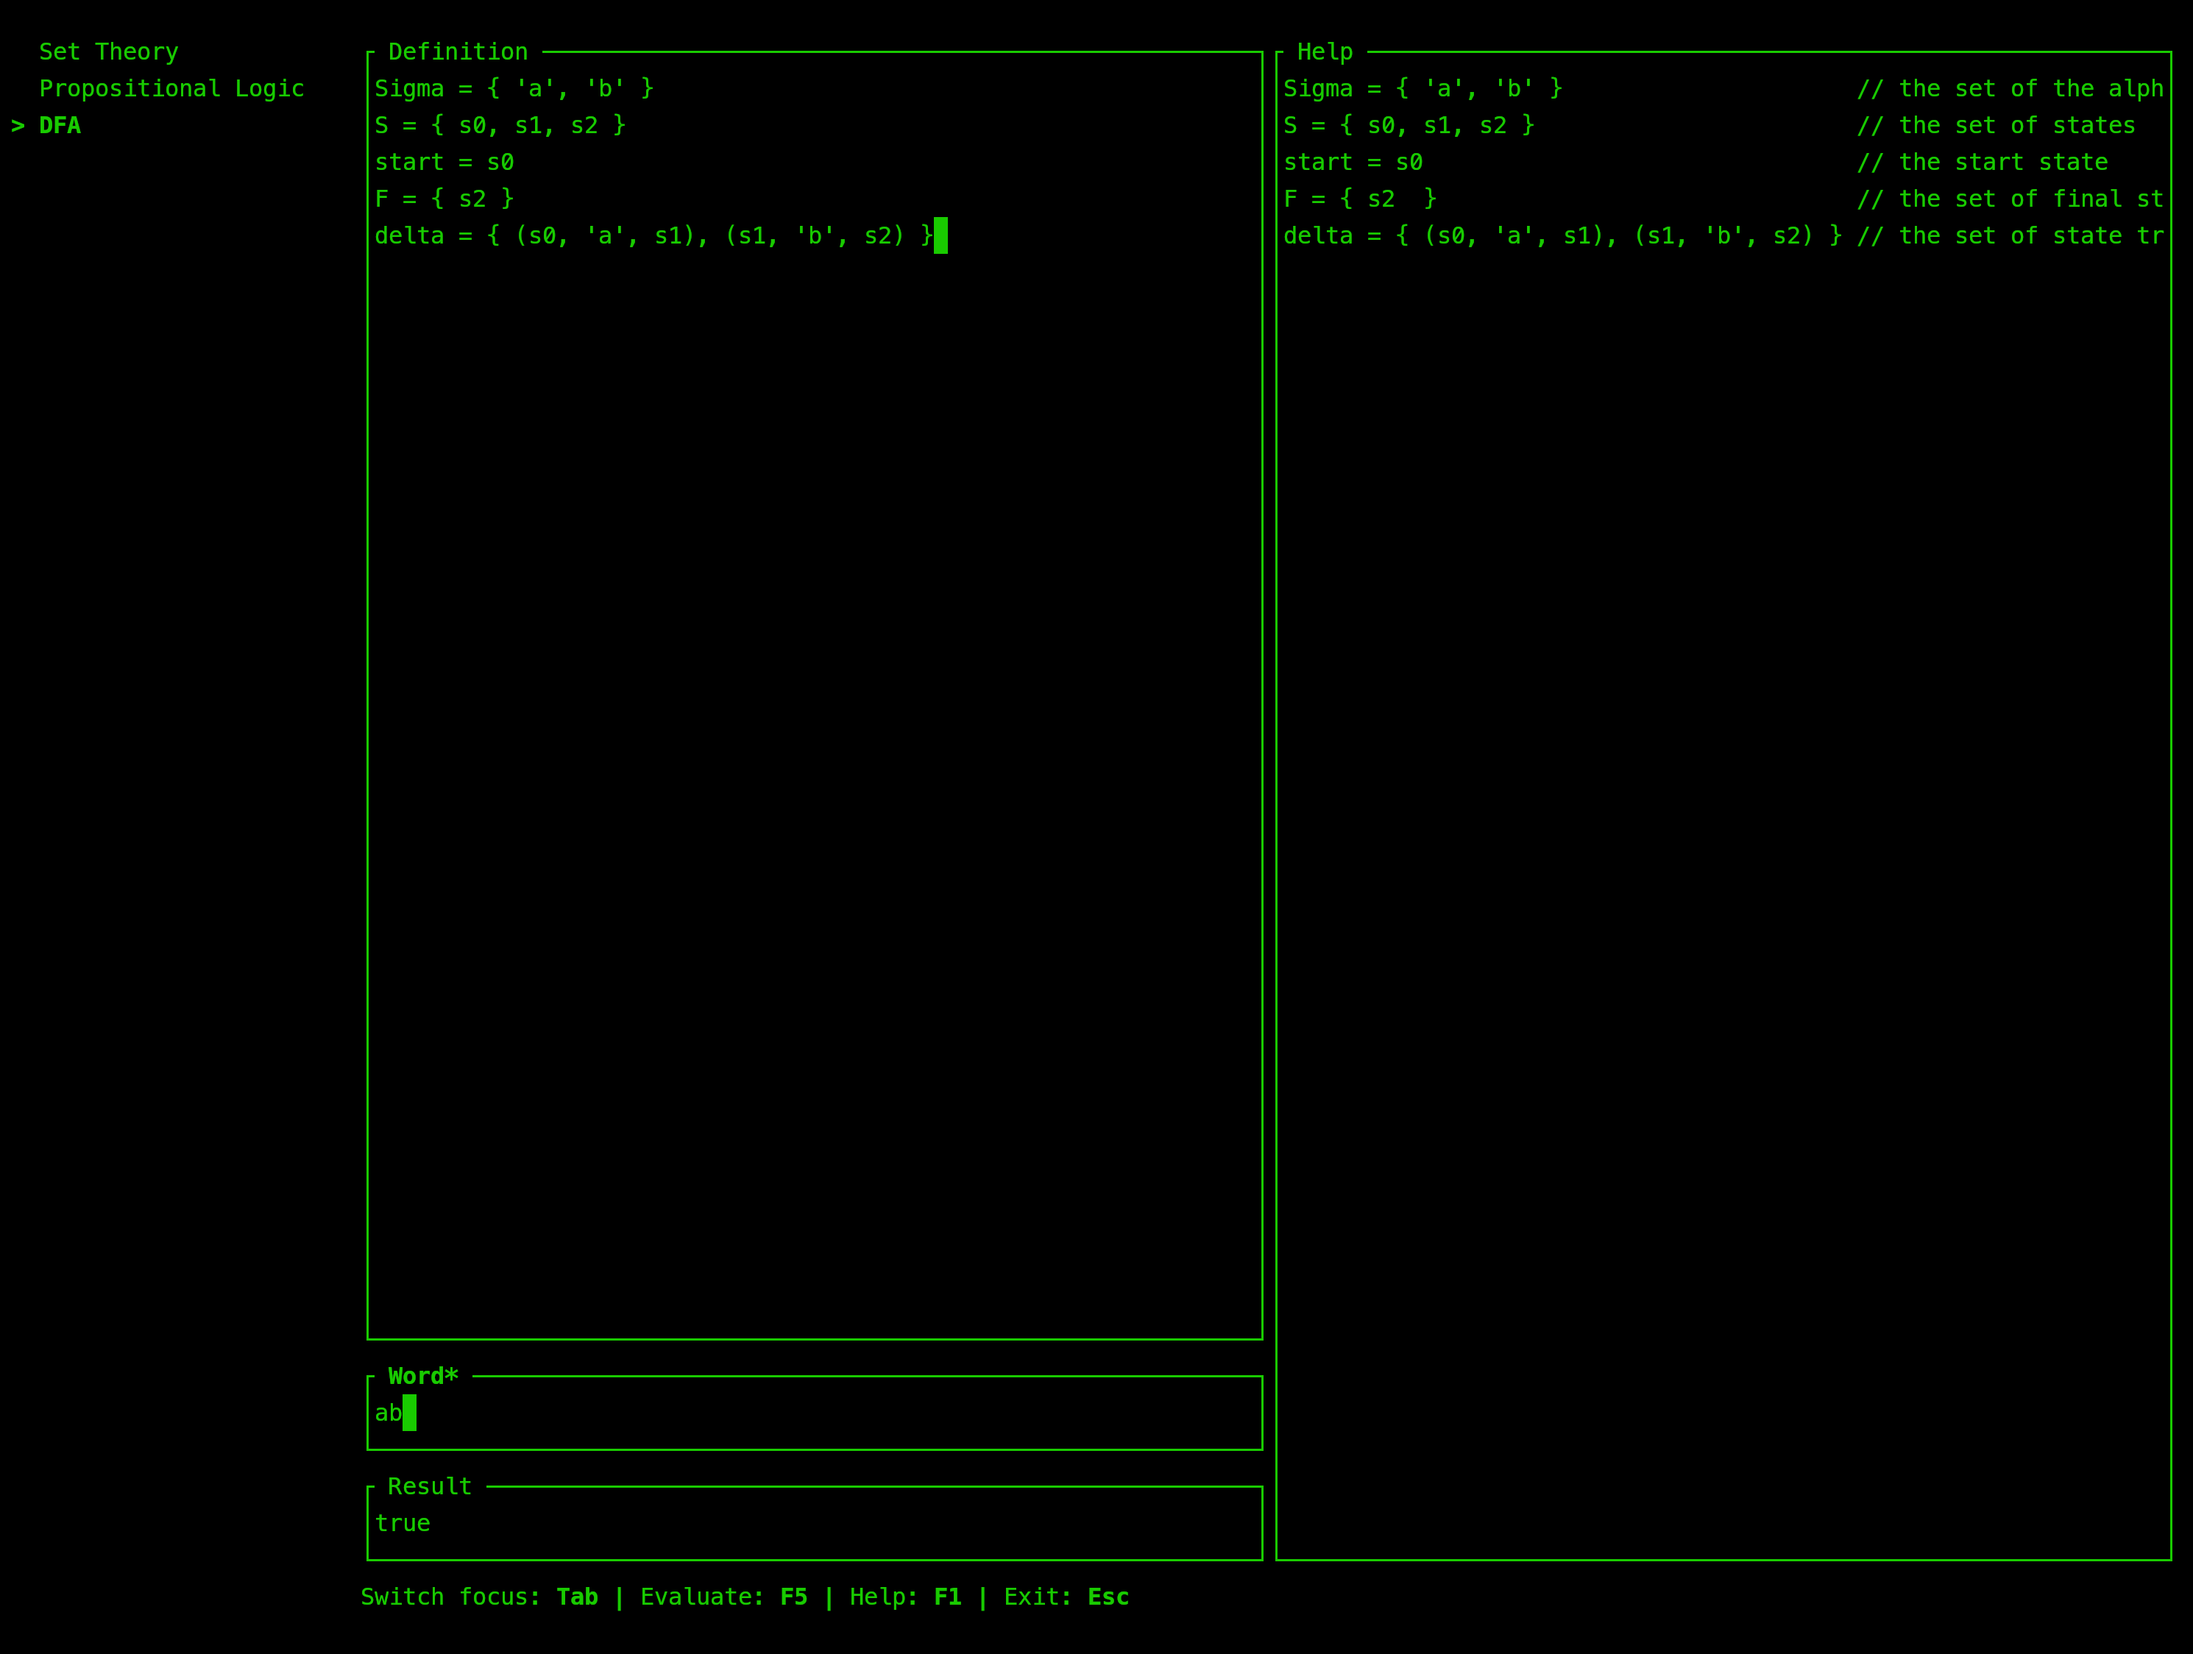
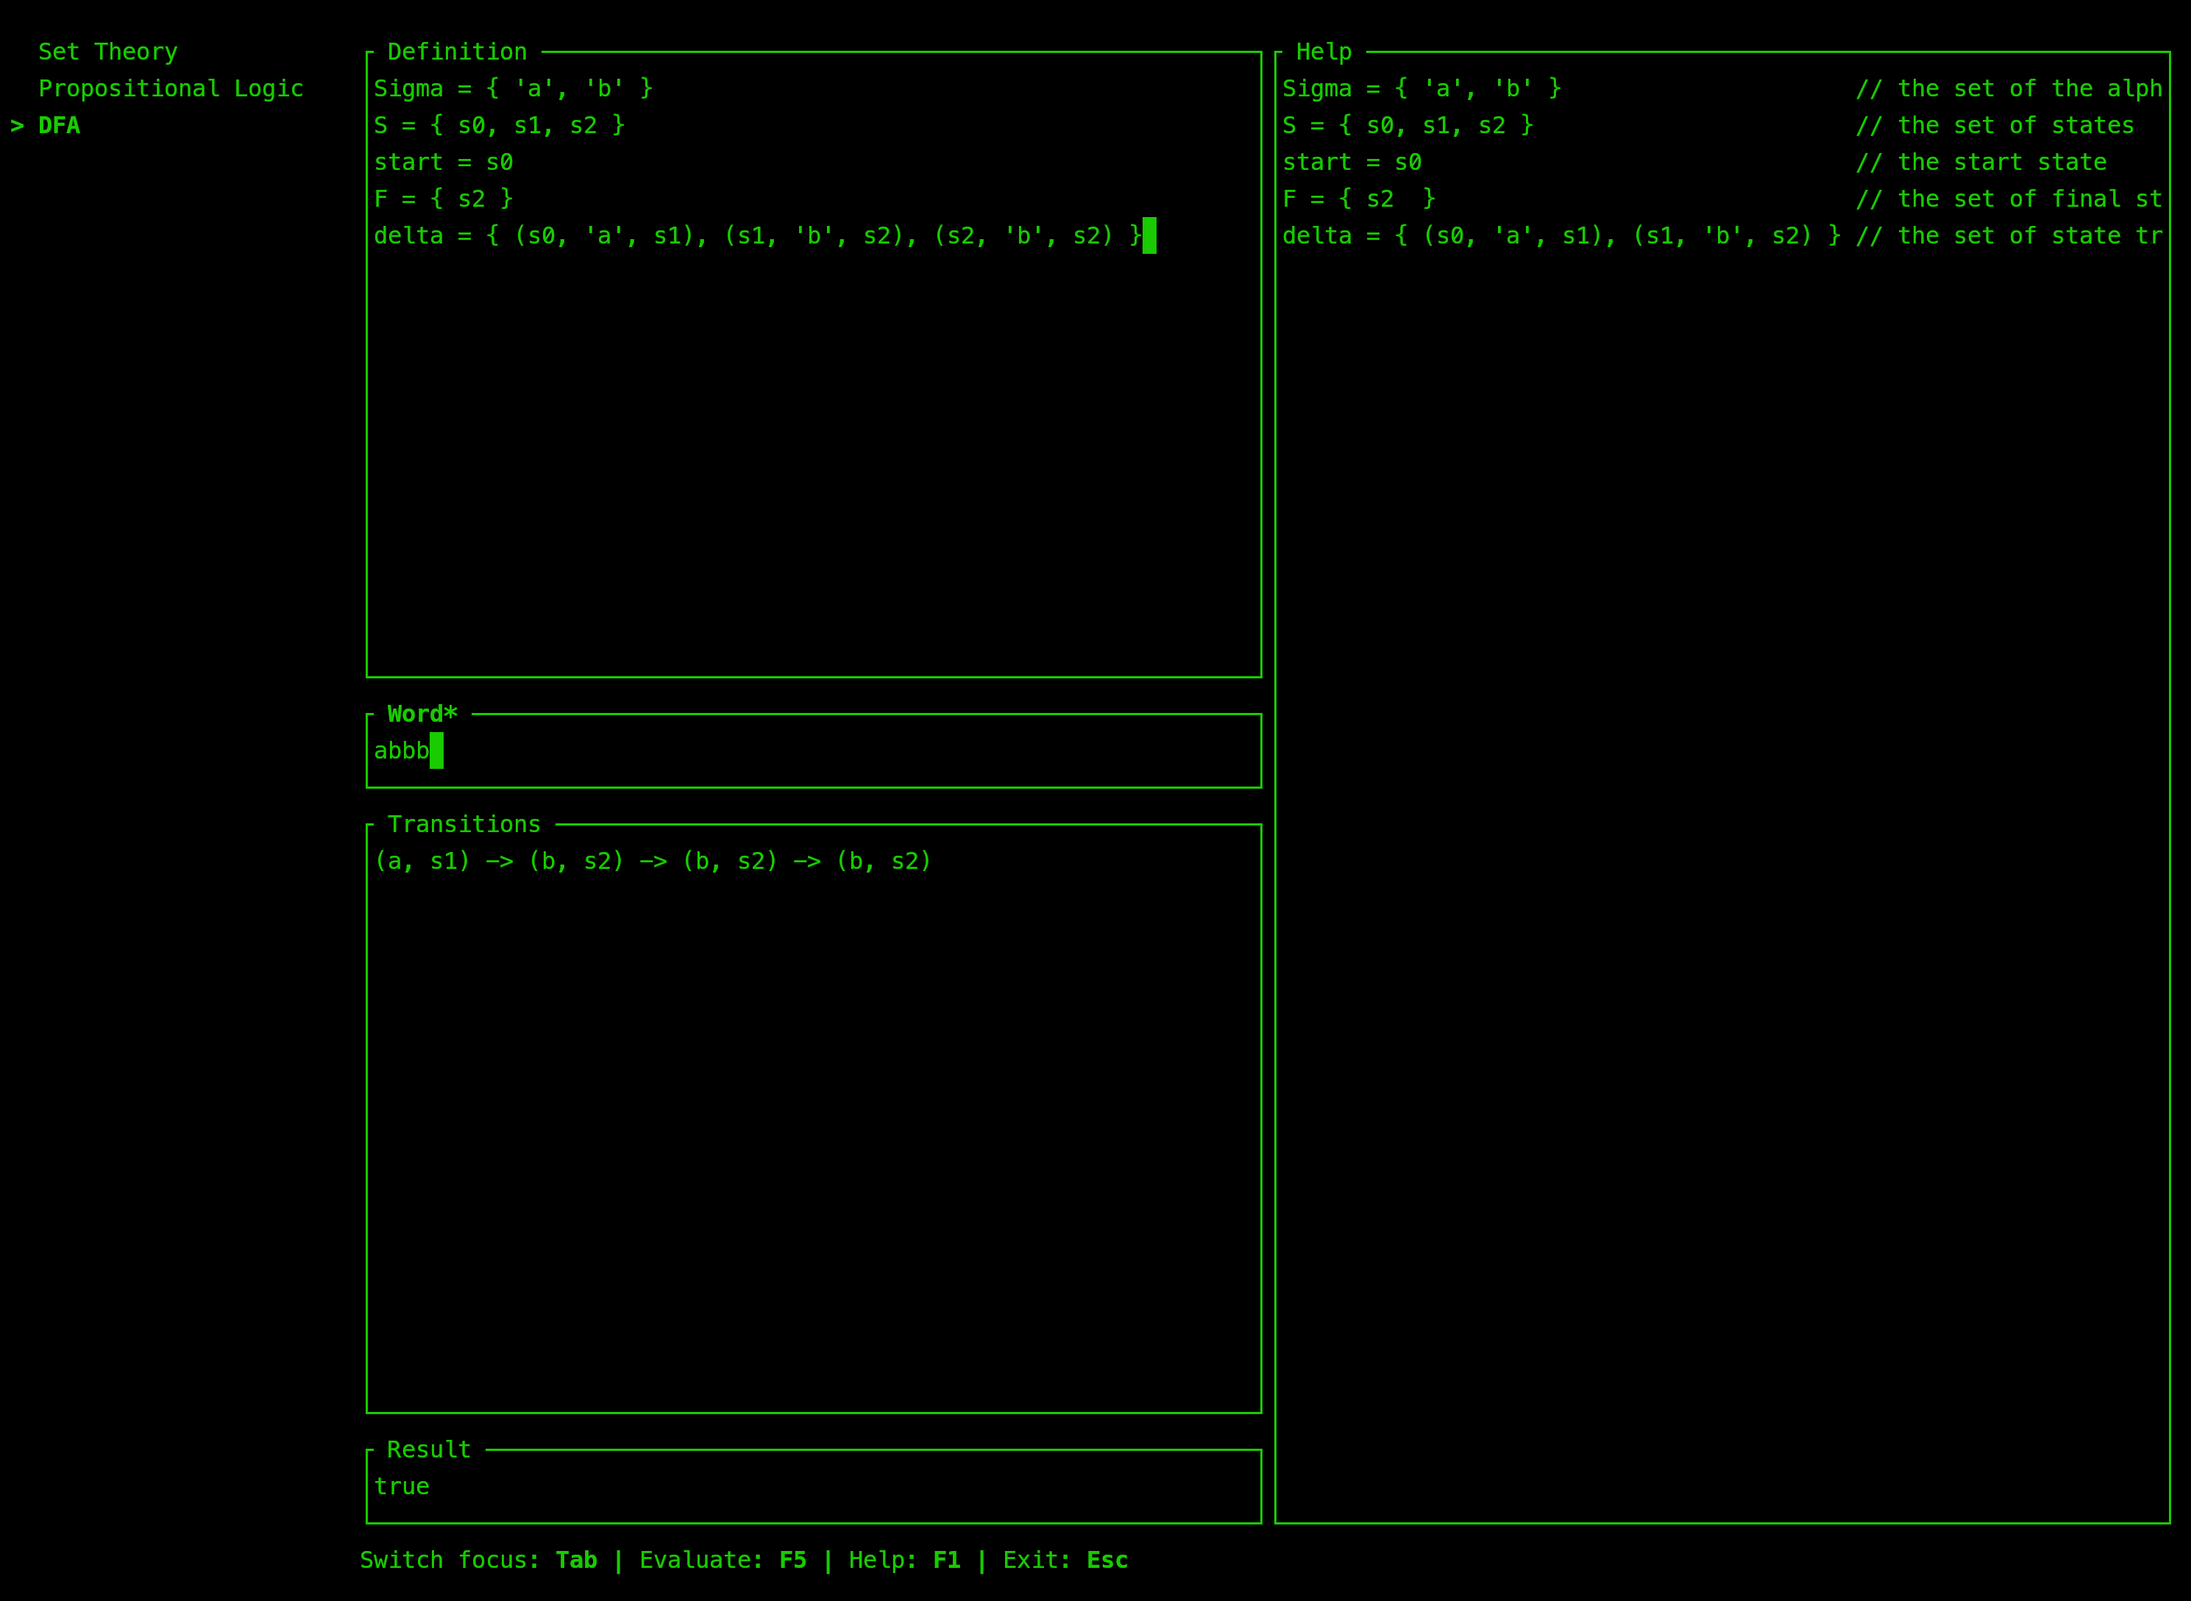
feat(dfa): implement a history of state transitions

diff --git a/theoinf/src/dfa.rs b/theoinf/src/dfa.rs
@@ -291,14 +291,9 @@ impl Dfa {
 
     /// The [Dfa] accepts the given word.
     pub fn accepts(&self, word: &str) -> bool {
-        let mut running_dfa = RunningDfa {
-            dfa: self,
-            current_state: &self.start_state,
-            remaining_input: word.chars().collect(),
-            accepted_input: vec![],
-        };
+        let mut running_dfa = RunningDfa::new(self, word);
         while running_dfa.transition() {}
-        running_dfa.accepts()
+        running_dfa.accepted()
     }
 }
 
@@ -306,6 +301,7 @@ impl Dfa {
 pub struct RunningDfa<'a> {
     pub(crate) dfa: &'a Dfa,
     pub(crate) current_state: &'a State,
+    pub(crate) transitions: Vec<(Symbol, &'a State)>,
     pub(crate) remaining_input: Vec<Symbol>,
     pub(crate) accepted_input: Vec<Symbol>,
 }
@@ -316,6 +312,7 @@ impl<'a> RunningDfa<'a> {
         Self {
             dfa,
             current_state: &dfa.start_state,
+            transitions: vec![],
             remaining_input: word.to_string().chars().collect(),
             accepted_input: vec![],
         }
@@ -326,9 +323,10 @@ impl<'a> RunningDfa<'a> {
         match self.remaining_input.first() {
             None => false,
             Some(symbol) => {
-                let next_state = self.dfa.delta.get(&(self.current_state.clone(), *symbol));
-                if let Some(next_state) = next_state {
+                if let Some(next_state) = self.dfa.delta.get(&(self.current_state.clone(), *symbol))
+                {
                     self.current_state = next_state;
+                    self.transitions.push((*symbol, next_state));
                     self.accepted_input.push(*symbol);
                     self.remaining_input.remove(0);
                     true
@@ -339,9 +337,20 @@ impl<'a> RunningDfa<'a> {
         }
     }
 
+    /// The [Dfa] accepts the word.
+    pub fn accepts(&mut self) -> bool {
+        while self.transition() {}
+        self.accepted()
+    }
+
     /// The [Dfa] is in a final state and the word has been fully consumed.
-    pub fn accepts(&self) -> bool {
+    pub fn accepted(&self) -> bool {
         self.dfa.final_states.contains(self.current_state) && self.remaining_input.is_empty()
+    }
+
+    /// The state transitions of the [Dfa] while processing the word.
+    pub fn transitions(&self) -> &Vec<(char, &'a String)> {
+        &self.transitions
     }
 }
 
@@ -549,5 +558,29 @@ delta = { (s0, 'a', s1), (s1, 'b', s2) }
 ";
         let r = parser::parse_dfa_definition(&mut s);
         assert!(r.is_err());
+    }
+
+    #[test]
+    fn runningdfa_transitions_works() {
+        let mut s = "
+Sigma = { 'a', 'b'  }
+S = { s0, s1, s2 }
+start = s0
+F = { s2  }
+delta = { (s0, 'a', s1), (s1, 'b', s2) , (s2, 'b', s2) }
+";
+        let r = parser::parse_dfa_definition(&mut s);
+        assert!(r.is_ok());
+        let dfa = r.unwrap();
+        let mut running_dfa = RunningDfa::new(&dfa, "abb");
+        assert!(running_dfa.accepts());
+        assert_eq!(
+            vec![
+                ('a', &"s1".to_string()),
+                ('b', &"s2".to_string()),
+                ('b', &"s2".to_string())
+            ],
+            running_dfa.transitions
+        );
     }
 }

diff --git a/theotui/src/update.rs b/theotui/src/update.rs
@@ -7,7 +7,7 @@ use ratatui::{
 };
 use std::{collections::HashMap, ops::Deref};
 use theoinf::{
-    dfa,
+    dfa::{self, RunningDfa},
     propositional_logic::{Assignment, run},
 };
 use tui_input::{Input, backend::crossterm::EventHandler};
@@ -92,20 +92,22 @@ fn on_key_event(model: &mut Model, key: KeyEvent) -> Option<Msg> {
             None
         }
         (SelectedTopic::Dfa, KeyCode::F(5)) => Some(Msg::DfaMsg(DfaMsg::Eval)),
-        (SelectedTopic::Dfa, _) => match model.dfa_state.focus {
-            crate::model::DfaFocus::Definition => {
-                model.dfa_state.definition_textarea.input(key);
-                None
-            }
-            crate::model::DfaFocus::WordInput => {
-                if key.code == KeyCode::Enter {
-                    Some(Msg::DfaMsg(DfaMsg::Eval))
-                } else {
-                    model.dfa_state.input_word_textarea.input(key);
+        (SelectedTopic::Dfa, _) if model.focus == Focus::TopicContent => {
+            match model.dfa_state.focus {
+                crate::model::DfaFocus::Definition => {
+                    model.dfa_state.definition_textarea.input(key);
                     None
                 }
+                crate::model::DfaFocus::WordInput => {
+                    if key.code == KeyCode::Enter {
+                        Some(Msg::DfaMsg(DfaMsg::Eval))
+                    } else {
+                        model.dfa_state.input_word_textarea.input(key);
+                        None
+                    }
+                }
             }
-        },
+        }
         _ => None,
     }
 }
@@ -249,13 +251,21 @@ pub(crate) fn update(model: &mut Model, msg: Msg) {
         Msg::DfaMsg(DfaMsg::Eval) => {
             let def = model.dfa_state.definition_textarea.lines().join("\n");
             let dfa = dfa::parser::parse_dfa_definition(&mut def.as_str());
-            model.dfa_state.result = match dfa {
+            (model.dfa_state.result, model.dfa_state.transitions) = match dfa {
                 Ok(dfa) => {
                     let word = model.dfa_state.input_word_textarea.lines();
                     let word = word.first().map(|w| w.deref()).unwrap_or("");
-                    dfa.accepts(word).to_string()
+                    let mut running_dfa = RunningDfa::new(&dfa, word);
+                    let accepts = running_dfa.accepts();
+                    let transitions = running_dfa
+                        .transitions()
+                        .iter()
+                        .map(|(sym, state)| format!("({}, {})", sym, state))
+                        .collect::<Vec<String>>()
+                        .join(" -> ");
+                    (accepts.to_string(), transitions)
                 }
-                Err(e) => e,
+                Err(e) => (e, "".to_string()),
             }
         }
     }

diff --git a/theotui/src/view.rs b/theotui/src/view.rs
@@ -6,7 +6,7 @@ use ratatui::{
     text::{Line, Span, Text},
     widgets::{
         Block, Borders, Cell, List, ListState, Paragraph, Row, Scrollbar, ScrollbarOrientation,
-        ScrollbarState, Table,
+        ScrollbarState, Table, Wrap,
     },
 };
 use strum::IntoEnumIterator;
@@ -447,6 +447,7 @@ fn render_dfa(frame: &mut Frame, rect: Rect, model: &mut Model) {
             [
                 Constraint::Min(7),    // definition
                 Constraint::Length(3), // input word
+                Constraint::Min(3),    // transitions
                 Constraint::Length(3), // result
             ]
             .as_ref(),
@@ -455,7 +456,8 @@ fn render_dfa(frame: &mut Frame, rect: Rect, model: &mut Model) {
 
     let definition_rect = sub_vert_split[0];
     let word_input_rect = sub_vert_split[1];
-    let result_rect = sub_vert_split[2];
+    let transitions_rect = sub_vert_split[2];
+    let result_rect = sub_vert_split[3];
 
     model
         .dfa_state
@@ -499,6 +501,17 @@ fn render_dfa(frame: &mut Frame, rect: Rect, model: &mut Model) {
         .constraints([Constraint::Percentage(100)].as_ref())
         .split(word_input_rect);
     frame.render_widget(&model.dfa_state.input_word_textarea, word_input_rect[0]);
+
+    // render transitions
+    let transitions_paragraph = Paragraph::new(model.dfa_state.transitions.as_str())
+        .wrap(Wrap { trim: false })
+        .style(default_style)
+        .block(
+            Block::default()
+                .borders(Borders::ALL)
+                .title(" Transitions "),
+        );
+    frame.render_widget(transitions_paragraph, transitions_rect);
 
     // render result
     let result_paragraph = Paragraph::new(model.dfa_state.result.as_str())

diff --git a/theotui/src/model.rs b/theotui/src/model.rs
@@ -83,6 +83,7 @@ pub(crate) struct DfaModel<'a> {
     pub(crate) definition_textarea: TextArea<'a>,
     pub(crate) input_word_textarea: TextArea<'a>,
     pub(crate) focus: DfaFocus,
+    pub(crate) transitions: String,
     pub(crate) result: String,
 }
 
@@ -94,6 +95,7 @@ impl<'a> Default for DfaModel<'a> {
             definition_textarea: default_def,
             input_word_textarea: Default::default(),
             focus: Default::default(),
+            transitions: Default::default(),
             result: Default::default(),
         }
     }
